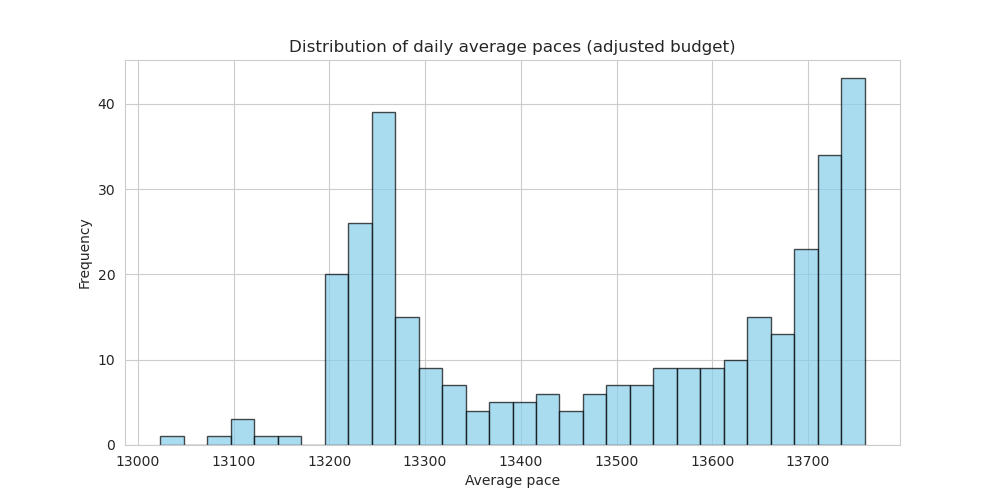
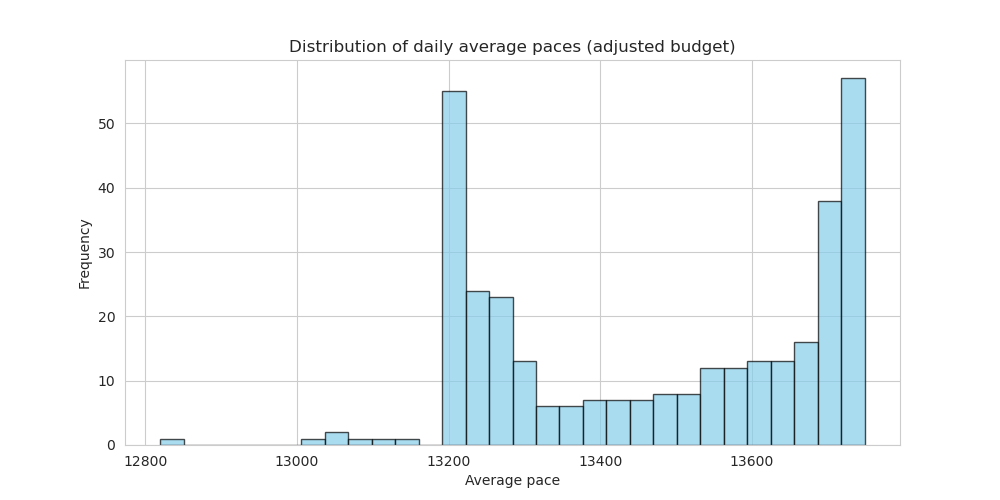
Take mean values of simulation results for a number of repetitions

diff --git a/sim.py b/sim.py
@@ -180,23 +180,34 @@ env = simpy.Environment()
 
 # Run simulation and perform analysis
 simulation_results = {}
+num_repetitions = 15
 budget_scenarios = {'tight': 0.3, 'adjusted': 1.0, 'slack': 2}
 for scenario, factor in budget_scenarios.items():
-  simulation_results[scenario] = []
+  all_simulation_runs = []
+  print(f"\nRunning {num_repetitions} simulations for scenario {scenario}")
+  for _ in range(num_repetitions):
+    temp_results = []
 
-  ##########################
-  #   Simulation running   #
-  ##########################
+    # Populate simulation configuration data.
+    marathon_sim = RaceSimulation(env, factor)
 
-  # Populate simulation configuration data.
-  marathon_sim = RaceSimulation(env, factor)
-  # Run simulation for all applicable days of the year.
-  for index, row in weather_data.iterrows():
+    # Run simulation for all applicable days of the year.
+    for index, row in weather_data.iterrows():
       date, temperature, humidity, wind = row
       # print(f"Running simulation with {scenario} budget for date {date} with temperature {temperature}, humidity {humidity}, wind {wind}")
-      runners, resources = marathon_sim.run([temperature, humidity, wind], 12895, 1500) # magic numbers come from data analysis (data/process_marathon_data.r)
+      runners, resources = marathon_sim.run([temperature, humidity, wind], 12895, 1500)
       avg_pace = np.mean([runner.pace for runner in runners])
-      simulation_results[scenario].append((date, avg_pace))
+      temp_results.append((date, avg_pace))
+
+    all_simulation_runs.append(temp_results)
+
+  # Compute the average results across all repetitions.
+  avg_results = {}
+  for day in range(len(weather_data)):
+      avg_pace = np.mean([run[day][1] for run in all_simulation_runs])
+      avg_results[weather_data.iloc[day, 0]] = avg_pace
+
+  simulation_results[scenario] = list(avg_results.items())
 
   ##########################
   #  Simulation analysis   #
@@ -205,7 +216,7 @@ for scenario, factor in budget_scenarios.items():
   # Get day with best average results
   results_df = pd.DataFrame(simulation_results[scenario], columns=['Date', 'Average pace'])
   best_day = results_df.loc[results_df['Average pace'].idxmin()]
-  print(f"\nBest Simulation Day: {best_day['Date']} with average runners' pace: {best_day['Average pace']:.2f}")
+  print(f"Best Simulation Day: {best_day['Date']} with average runners' pace: {best_day['Average pace']:.2f}")
 
   # Get also the month with best results
   results_df['Date'] = pd.to_datetime(results_df['Date'])
